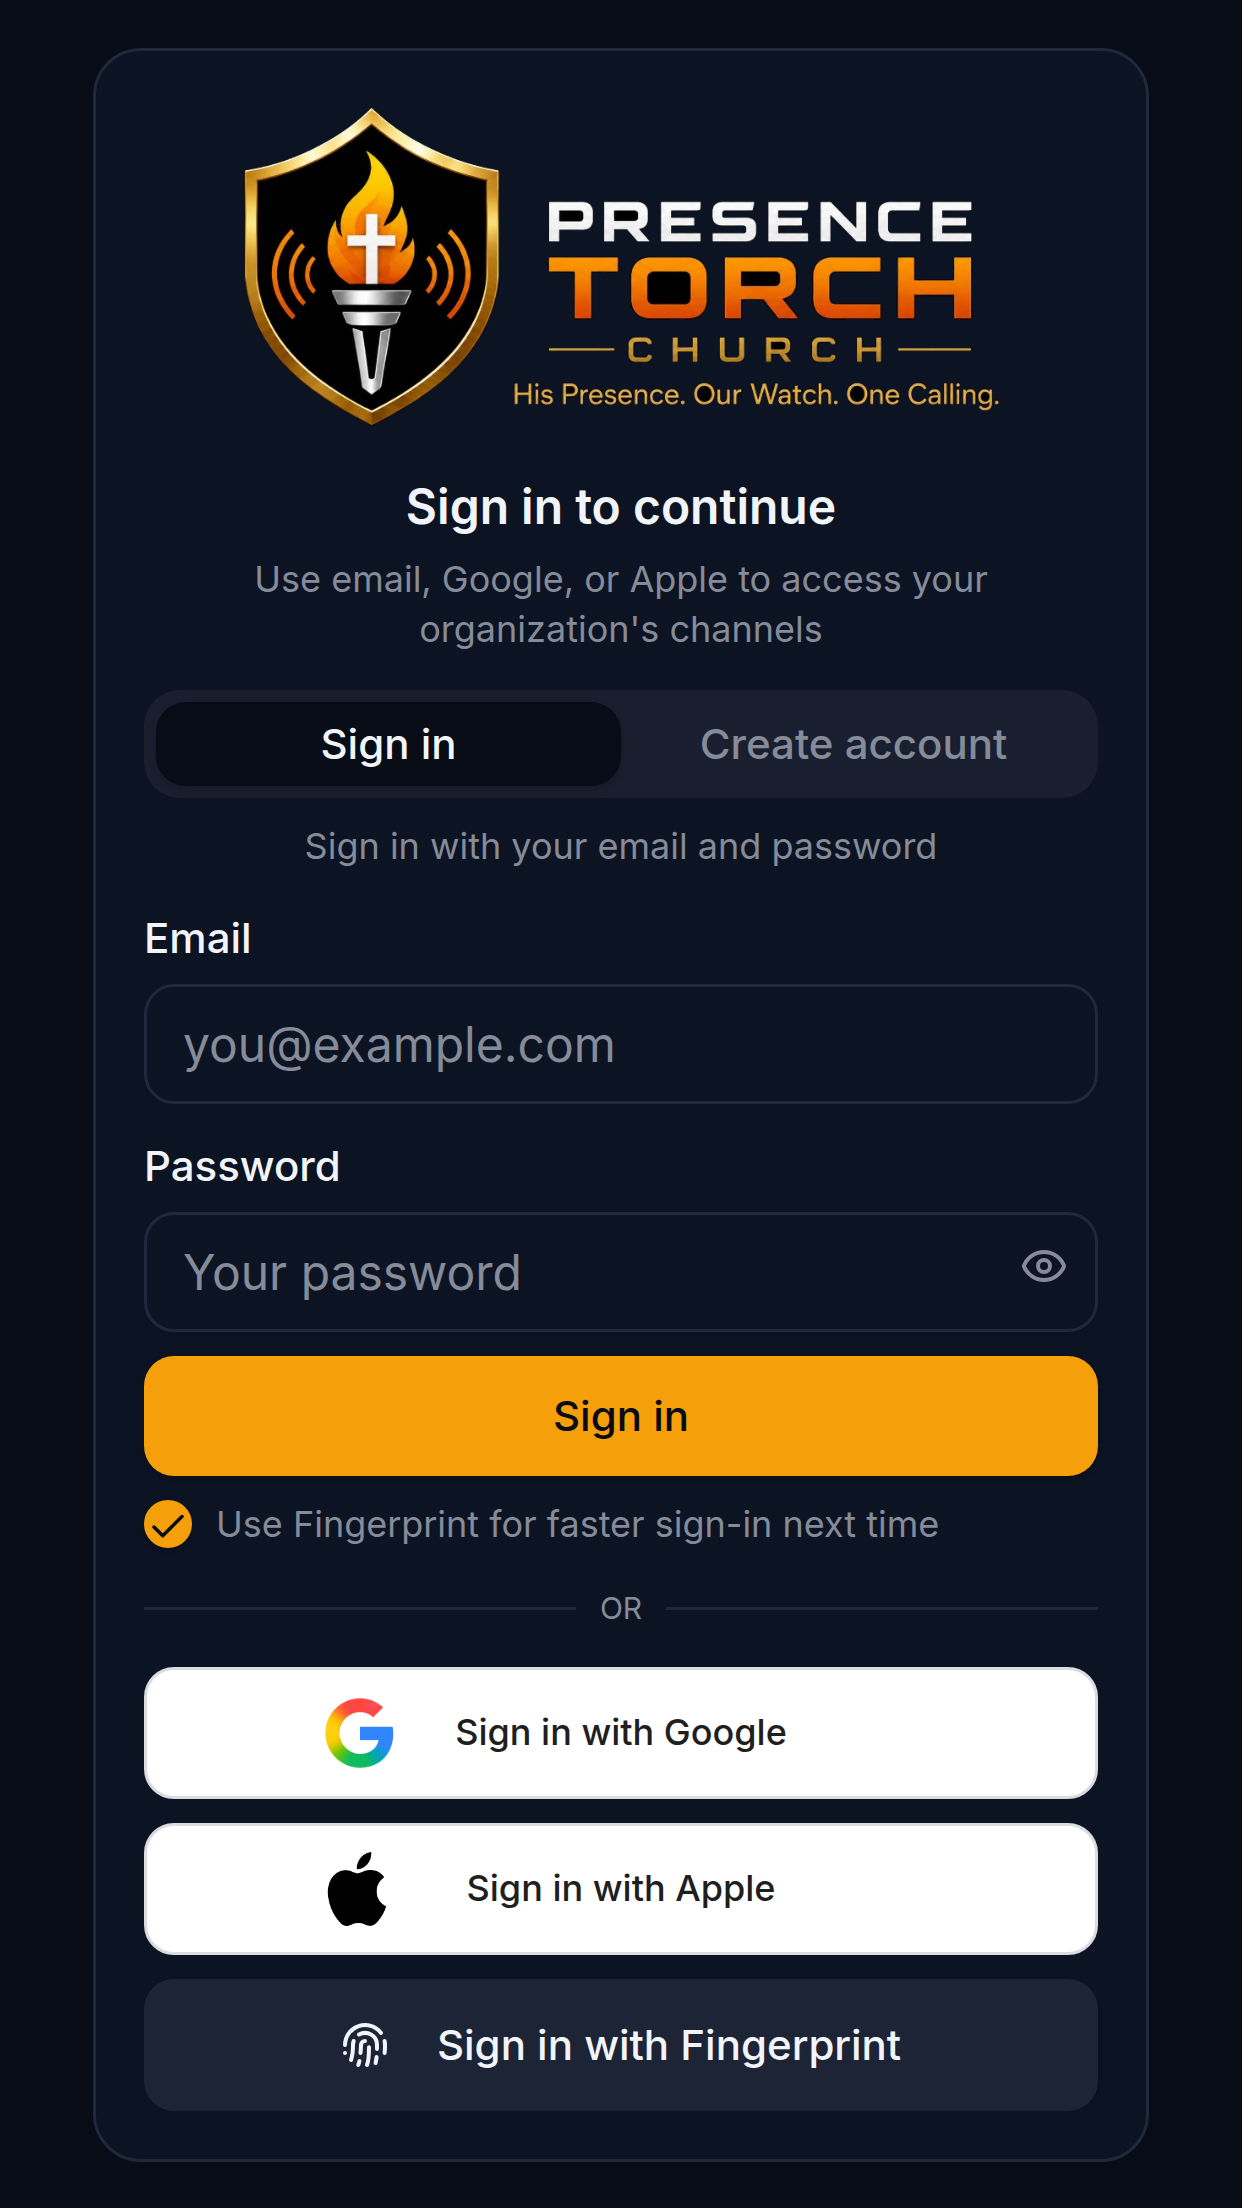
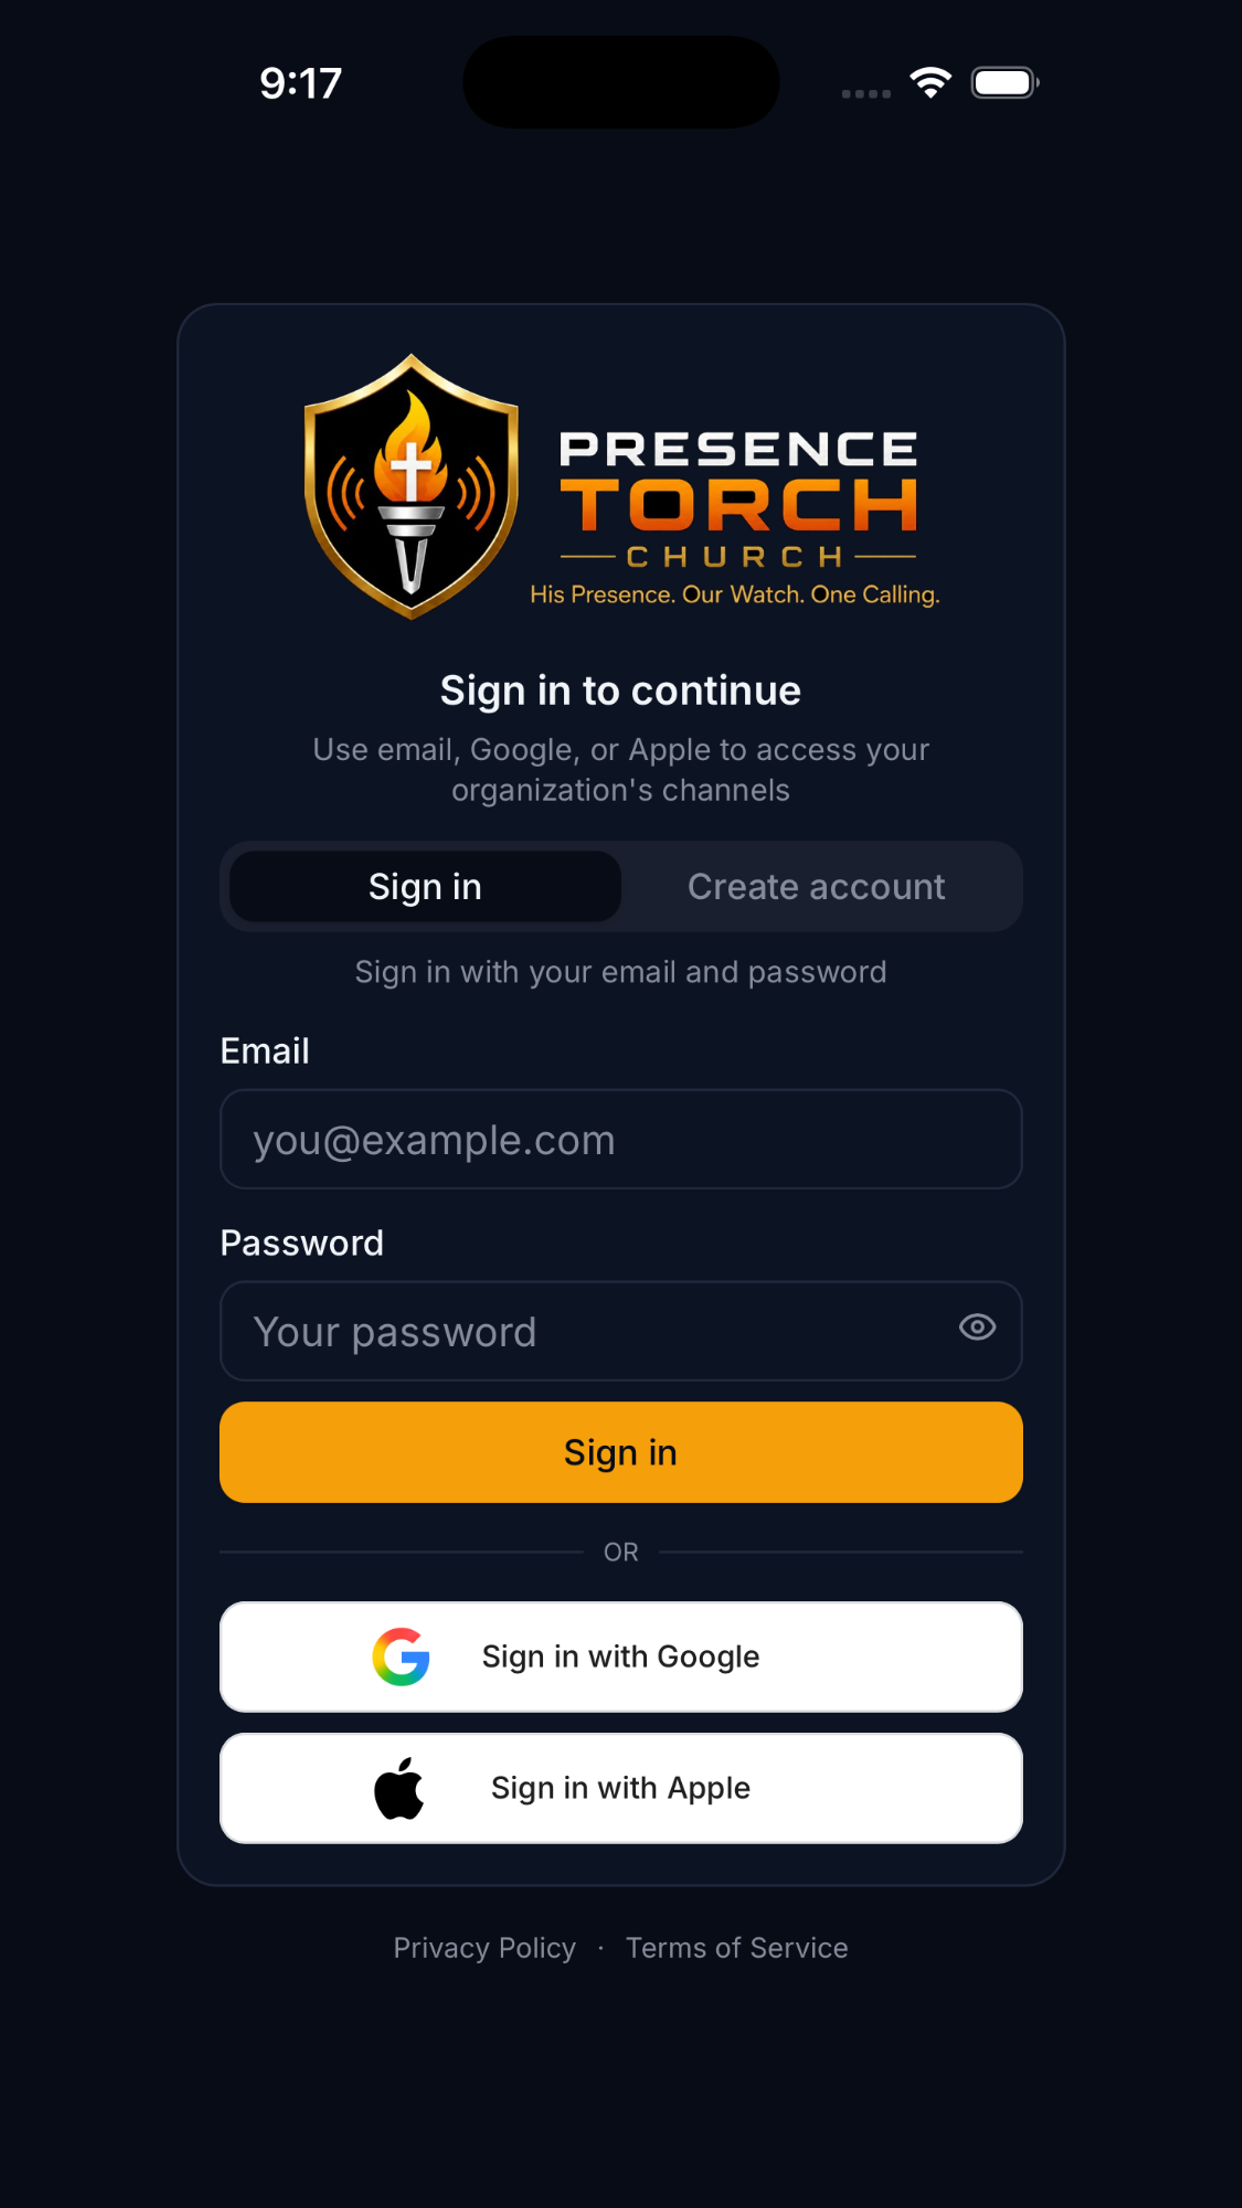
Use device sign-in screenshot as the App Store source frame
Replace the headless browser render with an iOS device capture, which
carries a real status bar, and re-export every accepted size from it.
The frame is within 0.5% of the 6.5" ratios, so cropping is negligible.

diff --git a/assets/app-store-screenshots/README.md b/assets/app-store-screenshots/README.md
@@ -30,17 +30,21 @@ The iPad set is required because `TARGETED_DEVICE_FAMILY` is `1,2`.
 
 ## Regenerating
 
+`source-signin.png` and `source-talk.png` are device screenshots. Replace either
+one and re-export every size from it:
+
 ```bash
-npm run export:app-store-screenshots                             # raster frames (Talk)
-APP_URL=http://127.0.0.1:5173 npm run capture:app-store-login    # native-resolution sign-in
+npm run export:app-store-screenshots           # both frames
+npm run export:app-store-screenshots talk      # just one
 ```
 
-The capture script renders `/login?storePreview=1`, which shows the Fingerprint
-controls and hides the PWA install prompt so the frame matches native iOS.
+Frames whose aspect ratio does not match a target are fit inside it and padded
+with the page background `#080c16` rather than cropped, so no UI is lost.
 
-`source-signin.png` and `source-talk.png` are the full-resolution originals the
-export script scales from. Frames whose aspect ratio does not match a target are
-fit inside it and padded with the page background `#080c16` rather than cropped.
+When no device is available, `npm run capture:app-store-login` renders
+`/login?storePreview=1` in headless Chrome at each size instead. That path
+overwrites `01-signin.png` with a browser render, which has no iOS status bar,
+so prefer a device screenshot for the shipped listing.
 
 `src/lib/appStoreScreenshots.test.js` asserts the exact pixel size, PNG format,
 and absence of alpha for every file here.
